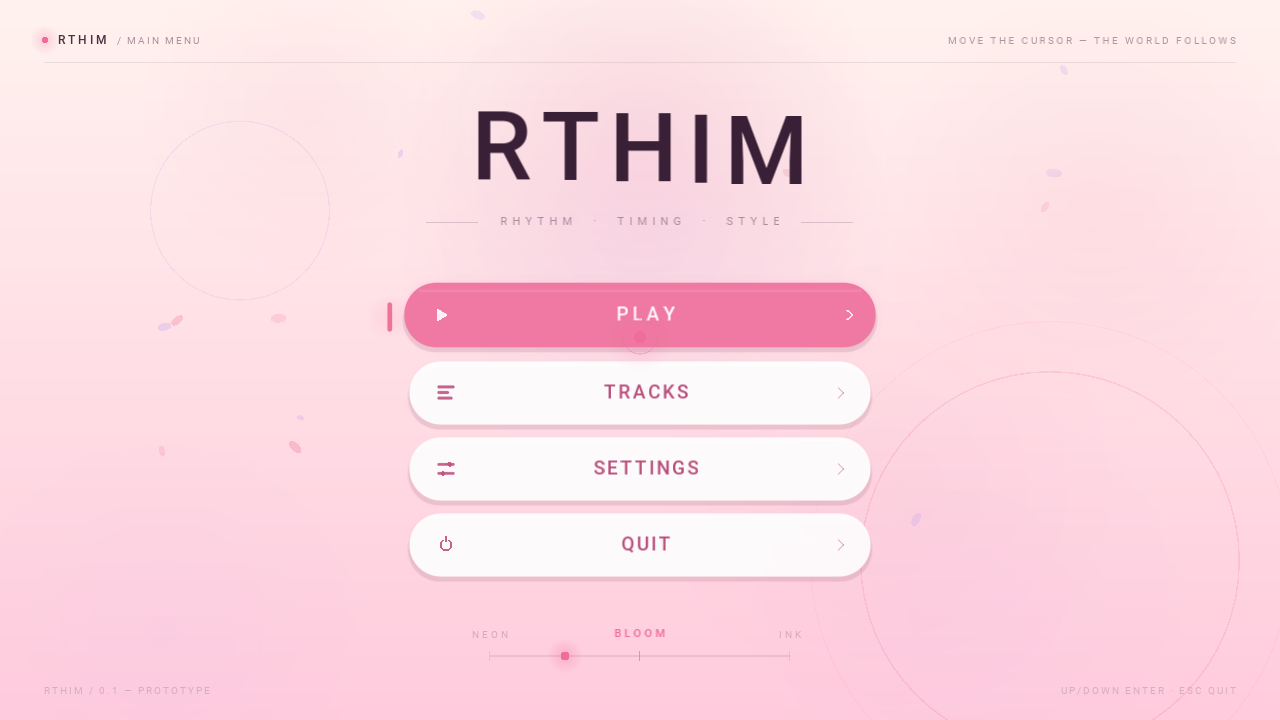
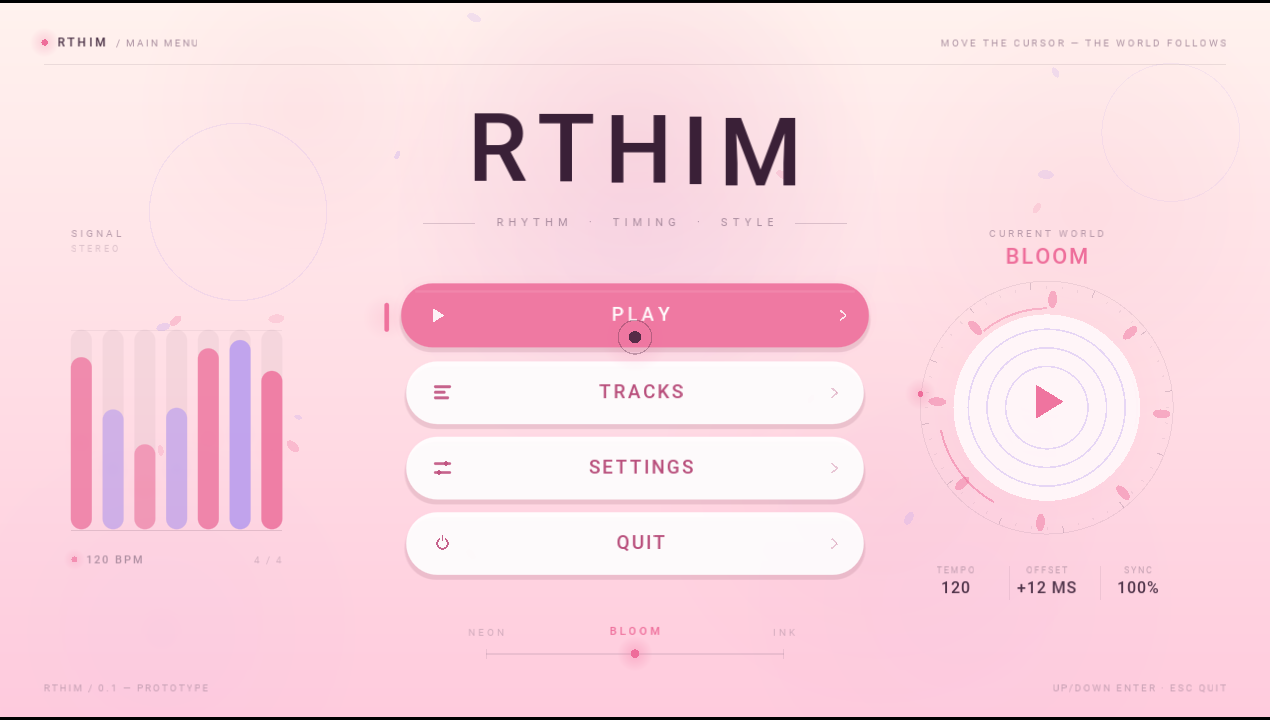
feat(menu): three-column composition with signal and world medallion
- left: animated seven-bar signal meter with BPM readout
- right: medallion of the current world — orbit ticks, rotating arcs,
  per-style interior (spectrum spokes / petals / vinyl wedge), big
  action icon that pops on selection change, tempo/offset/sync stats
- fix style meter knob only reaching the middle of the track
- keep the current world readable during transitions: button labels
  contrast against the fill, cursor switches to text colour on hover
- ink backdrop: drop the duplicate ring that fought with the medallion

diff --git a/src/menu.cpp b/src/menu.cpp
@@ -231,12 +231,10 @@ void backdrop(Gfx &g, const Style &st, const float w[3], const State &s) {
             g.ellipse(x, y, rx, rx * 0.55f, rot, fade(c, al), 16);
         }
 
-        g.ring(1050.f + px * -40.f, 560.f + py * -30.f, 190.f, 1.5f,
-               fade(st.accent, 0.18f * a));
-        g.ring(1050.f + px * -40.f, 560.f + py * -30.f, 240.f, 1.f,
-               fade(st.accent, 0.08f * a));
         g.ring(240.f + px * -30.f, 210.f + py * -20.f, 90.f, 1.2f,
                fade(st.accent2, 0.16f * a));
+        g.ring(1180.f + px * -20.f, 130.f + py * -20.f, 70.f, 1.f,
+               fade(st.accent2, 0.12f * a));
     }
 
     // ---- INK: полутон, пыль, красное кольцо, рамка ------------------------
@@ -264,13 +262,6 @@ void backdrop(Gfx &g, const Style &st, const float w[3], const State &s) {
             float x = 860.f + float(i) * 46.f;
             g.line(x, -20.f, x - 190.f, 210.f, 22.f, fade(st.text, 0.04f * a));
         }
-
-        float cx = 1090.f + px * -50.f, cy = 552.f + py * -30.f;
-        g.ring(cx, cy, 150.f, 2.f, fade(st.accent2, 0.55f * a));
-        float ang = time * 0.35f;
-        g.circle(cx + std::cos(ang) * 150.f, cy + std::sin(ang) * 150.f, 5.f,
-                 fade(st.accent2, 0.9f * a), 16);
-        g.circle(cx, cy, 3.f, fade(st.accent2, 0.7f * a), 12);
 
         Color frame = fade(st.text, 0.45f * a);
         g.line(16.f, 16.f, W - 16.f, 16.f, 1.2f, frame);
@@ -470,6 +461,199 @@ void button(Gfx &g, const Style &st, const State &s, int i, float peak) {
     g.line(ax + 6.f, cy, ax, cy + 5.f, 1.6f, arrow);
 }
 
+// Левая колонка: «сигнал» — псевдо-эквалайзер, который дышит в такт.
+void equalizer(Gfx &g, const Style &st, const State &s) {
+    float a = clamp01((s.intro - 0.30f) / 0.6f);
+    if (a <= 0.002f) {
+        return;
+    }
+    constexpr float x0 = 72.f;
+    constexpr float base = 530.f;
+    constexpr float bw = 20.f;
+    constexpr float gap = 12.f;
+    constexpr float maxH = 200.f;
+    constexpr int n = 7;
+
+    g.text("SIGNAL", 10, fade(st.dim, 0.7f * a), x0, 226.f, Gfx::Left, 3.f,
+           false);
+    g.text("STEREO", 9, fade(st.dim, 0.35f * a), x0, 242.f, Gfx::Left, 3.f,
+           false);
+
+    float beat = std::pow(std::max(0.f, std::sin(s.time * 6.28318f * 2.f)), 6.f);
+    float trackW = float(n) * (bw + gap) - gap;
+
+    g.fillRect({x0, base - maxH, trackW, 1.f}, fade(st.text, 0.06f * a));
+    g.fillRect({x0, base + 1.f, trackW, 1.f}, fade(st.text, 0.14f * a));
+
+    for (int i = 0; i < n; ++i) {
+        float ph = float(i) * 0.9f;
+        float wave = 0.5f + 0.5f * std::sin(s.time * 2.4f + ph);
+        float wave2 = 0.5f + 0.5f * std::sin(s.time * 4.1f + ph * 1.7f);
+        float shape = 0.30f + 0.40f * wave + 0.22f * wave2;
+        float h = std::min(maxH, 24.f + maxH * shape * (1.f + 0.18f * beat));
+        float x = x0 + float(i) * (bw + gap);
+        float r = st.radiusFactor * bw * 0.5f;
+        Color c = (i % 2 == 0) ? st.accent : st.accent2;
+
+        g.fillRoundRect({x, base - maxH, bw, maxH}, r, 0.f,
+                        fade(st.text, 0.05f * a));
+        if (st.hardShadow > 0.2f) {
+            float sh = st.hardShadow * 0.5f;
+            g.fillRoundRect({x + sh, base - h + sh, bw, h}, r, 0.f,
+                            fade(hex(0x000000), 0.85f * a));
+        }
+        g.fillRoundRect({x, base - h, bw, h}, r, 0.f,
+                        fade(c, (0.55f + 0.30f * wave) * a));
+        if (st.glow > 0.05f) {
+            g.glowCircle(x + bw * 0.5f, base - h * 0.5f, 20.f, c,
+                         0.09f * st.glow * a);
+        }
+    }
+
+    float by = base + 24.f;
+    float pulse = 0.6f + 0.4f * std::sin(s.time * 6.28318f * 2.f);
+    g.glowCircle(x0 + 3.f, by + 7.f, 11.f, st.accent, 0.30f * a * pulse);
+    g.circle(x0 + 3.f, by + 7.f, 3.f, fade(st.accent, a * pulse), 16);
+    g.text("120 BPM", 11, fade(st.dim, 0.8f * a), x0 + 15.f, by,
+           Gfx::Left, 2.f, true);
+    g.text("4 / 4", 10, fade(st.dim, 0.4f * a), x0 + trackW, by + 1.f,
+           Gfx::Right, 2.f, false);
+}
+
+// Правая колонка: медальон текущего мира и выбранного действия.
+void hero(Gfx &g, const Style &st, const float w[3], const State &s) {
+    float a = clamp01((s.intro - 0.35f) / 0.6f);
+    if (a <= 0.002f) {
+        return;
+    }
+    constexpr float cx = 1055.f;
+    constexpr float cy = 408.f;
+    constexpr float R = 104.f;
+    float beat = std::pow(std::max(0.f, std::sin(s.time * 6.28318f * 2.f)), 8.f);
+
+    g.text("CURRENT WORLD", 10, fade(st.dim, 0.7f * a), cx, 226.f,
+           Gfx::Center, 3.f, false);
+    int active = std::clamp(int(std::round(s.styleT)), 0, 2);
+    g.text(kNames[active], 22, fade(st.accent, a), cx, 242.f, Gfx::Center,
+           2.f, true);
+
+    // Орбита с делениями и вращающимися дугами.
+    g.ring(cx, cy, R + 24.f, 1.f, fade(st.dim, 0.16f * a));
+    for (int i = 0; i < 48; ++i) {
+        float ang = 6.28318f * float(i) / 48.f + s.time * 0.06f;
+        float r0 = R + 16.f;
+        float r1 = r0 + ((i % 4 == 0) ? 7.f : 3.f);
+        g.line(cx + std::cos(ang) * r0, cy + std::sin(ang) * r0,
+               cx + std::cos(ang) * r1, cy + std::sin(ang) * r1, 1.f,
+               fade(st.dim, ((i % 4 == 0) ? 0.35f : 0.14f) * a));
+    }
+    for (int k = 0; k < 3; ++k) {
+        float base = s.time * (0.32f - 0.07f * float(k)) + float(k) * 2.4f;
+        float span = 0.85f - 0.16f * float(k);
+        g.arc(cx, cy, R + 6.f - float(k) * 9.f, 2.f, base, base + span,
+              fade(st.accent, (0.50f - 0.12f * float(k)) * a), 40);
+    }
+
+    float discR = R - 10.f + beat * 2.f;
+
+    // Свечение/тень под диском.
+    if (w[0] > 0.01f) {
+        g.glowCircle(cx, cy, R * 1.3f, st.accent,
+                     (0.14f + 0.10f * beat) * w[0] * a);
+    }
+    if (w[1] > 0.01f) {
+        g.glowCircle(cx, cy, R * 1.15f, st.accent,
+                     (0.09f + 0.06f * beat) * w[1] * a);
+    }
+    if (w[2] > 0.01f) {
+        g.circle(cx + 9.f, cy + 9.f, discR,
+                 fade(hex(0x000000), 0.85f * w[2] * a), 64);
+    }
+
+    Color disc = mix(st.btnFill, st.bgBottom, 0.15f);
+    if (w[2] > 0.01f) {
+        disc = mix(disc, hex(0xF6F3EB), 0.85f * w[2]);
+    }
+    g.circle(cx, cy, discR, fade(disc, a), 64);
+    if (st.borderWidth > 0.35f) {
+        g.ring(cx, cy, discR, st.borderWidth, fade(st.btnBorder, a));
+    }
+
+    // Внутренности диска — свои у каждого мира.
+    if (w[0] > 0.01f) {
+        for (int i = 0; i < 32; ++i) {
+            float ang = 6.28318f * float(i) / 32.f - s.time * 0.35f;
+            float r0 = discR * 0.40f;
+            float amp = 0.35f + 0.65f * std::fabs(
+                                         std::sin(float(i) * 2.1f + s.time * 2.6f));
+            float r1 = r0 + 10.f + discR * 0.34f * amp;
+            g.line(cx + std::cos(ang) * r0, cy + std::sin(ang) * r0,
+                   cx + std::cos(ang) * r1, cy + std::sin(ang) * r1, 2.f,
+                   fade((i % 2) ? st.accent2 : st.accent, 0.45f * w[0] * a));
+        }
+        g.ring(cx, cy, discR * 0.36f, 1.2f, fade(st.accent, 0.40f * w[0] * a));
+    }
+    if (w[1] > 0.01f) {
+        for (int i = 0; i < 3; ++i) {
+            g.ring(cx, cy, discR * (0.45f + 0.20f * float(i)), 1.6f,
+                   fade(st.accent2, 0.34f * w[1] * a));
+        }
+        for (int i = 0; i < 8; ++i) {
+            float ang = s.time * 0.25f + 6.28318f * float(i) / 8.f;
+            float rr = discR + 18.f + std::sin(s.time * 1.2f + float(i)) * 4.f;
+            g.ellipse(cx + std::cos(ang) * rr, cy + std::sin(ang) * rr, 9.f,
+                      4.4f, ang, fade(st.accent, 0.45f * w[1] * a), 18);
+        }
+    }
+    if (w[2] > 0.01f) {
+        std::vector<Pt> wedge;
+        wedge.push_back({cx, cy});
+        float baseAng = s.time * 0.18f;
+        for (int i = 0; i <= 24; ++i) {
+            float ang = baseAng + 1.10f * float(i) / 24.f;
+            wedge.push_back({cx + std::cos(ang) * discR,
+                             cy + std::sin(ang) * discR});
+        }
+        g.polygon(wedge, fade(st.accent2, 0.85f * w[2] * a));
+
+    }
+
+    if (w[2] > 0.01f) {
+        g.circle(cx, cy, 42.f, fade(hex(0xF6F3EB), 0.96f * w[2] * a), 40);
+        g.ring(cx, cy, 42.f, 2.f, fade(hex(0x15130F), 0.9f * w[2] * a));
+    }
+
+    // Большая иконка выбранного пункта.
+    float pop = 1.f + 0.14f * std::exp(-s.iconT * 9.f);
+    Color ic = st.accent;
+    if (std::fabs(luminance(ic) - luminance(disc)) < 0.22f) {
+        ic = st.text;
+    }
+    icon(g, kIcons[s.selected], cx, cy - 6.f, 2.6f * pop,
+         fade(ic, 0.95f * a));
+
+    // Точка на орбите.
+    float oa = s.time * 0.5f;
+    float ox = cx + std::cos(oa) * (R + 24.f);
+    float oy = cy + std::sin(oa) * (R + 24.f);
+    g.glowCircle(ox, oy, 16.f, st.accent, 0.25f * a);
+    g.circle(ox, oy, 3.f, fade(st.accent, a), 16);
+
+    // Показания под медальоном.
+    const char *statLabels[3] = {"TEMPO", "OFFSET", "SYNC"};
+    const char *statVals[3] = {"120", "+12 MS", "100%"};
+    for (int i = 0; i < 3; ++i) {
+        float x = cx + float(i - 1) * 92.f;
+        g.text(statLabels[i], 9, fade(st.dim, 0.6f * a), x, 566.f,
+               Gfx::Center, 2.f, false);
+        g.text(statVals[i], 16, fade(st.text, 0.9f * a), x, 580.f,
+               Gfx::Center, 1.f, true);
+        if (i < 2) {
+            g.fillRect({x + 54.f, 568.f, 1.f, 34.f}, fade(st.text, 0.08f * a));
+        }
+    }
+}
+
 void footer(Gfx &g, const Style &st, const State &s) {
     float a = clamp01((s.intro - 0.5f) / 0.6f);
     if (a <= 0.002f) {
@@ -492,14 +676,14 @@ void footer(Gfx &g, const Style &st, const State &s) {
                on ? 626.f : 628.f, Gfx::Center, 3.f, on);
     }
 
-    float kx = trackX + trackW * 0.5f * (s.styleT * 0.5f);
+    float kx = trackX + trackW * (s.styleT * 0.5f);
     float pulse = 0.7f + 0.3f * std::sin(s.time * 4.f);
     g.glowCircle(kx, trackY, 18.f, st.accent, 0.35f * a * pulse);
     g.circle(kx, trackY, 4.5f, fade(st.accent, a), 24);
 
-    g.text("RTHIM / 0.1 — PROTOTYPE", 10, fade(st.dim, 0.4f * a), 44.f,
+    g.text("RTHIM / 0.1 — PROTOTYPE", 10, fade(st.dim, 0.55f * a), 44.f,
            684.f, Gfx::Left, 2.f, false);
-    g.text("UP/DOWN ENTER · ESC QUIT", 10, fade(st.dim, 0.4f * a),
+    g.text("UP/DOWN ENTER · ESC QUIT", 10, fade(st.dim, 0.55f * a),
            W - 44.f, 684.f, Gfx::Right, 2.f, false);
 }
 
@@ -533,22 +717,25 @@ void cursorDraw(Gfx &g, const Style &st, const float w[3], const State &s) {
         hov = std::max(hov, s.hover[i]);
     }
     float k = 1.f + 0.35f * hov;
+    // На залитой акцентом кнопке курсор того же цвета исчезал бы —
+    // подмешиваем цвет текста, он всегда контрастен плашке.
+    Color cc = mix(st.accent, st.text, hov * 0.85f);
 
     g.glowCircle(s.trailX, s.trailY, 26.f * k, st.accent,
                  0.10f + 0.10f * hov);
 
     if (w[0] > 0.01f) {
-        Color c = fade(st.accent, 0.85f * w[0]);
+        Color c = fade(cc, 0.85f * w[0]);
         g.line(x - 15.f * k, y, x + 15.f * k, y, 1.3f, c);
         g.line(x, y - 15.f * k, x, y + 15.f * k, 1.3f, c);
-        g.ring(x, y, 9.f * k, 1.2f, fade(st.accent, 0.55f * w[0]));
+        g.ring(x, y, 9.f * k, 1.2f, fade(cc, 0.55f * w[0]));
     }
     if (w[1] > 0.01f) {
-        g.circle(x, y, 4.6f * k, fade(st.accent, w[1]), 24);
-        g.ring(x, y, 13.f * k, 1.2f, fade(st.accent, 0.35f * w[1]));
+        g.circle(x, y, 4.6f * k, fade(cc, w[1]), 24);
+        g.ring(x, y, 13.f * k, 1.2f, fade(cc, 0.35f * w[1]));
     }
     if (w[2] > 0.01f) {
-        Color c = fade(st.text, w[2]);
+        Color c = fade(cc, w[2]);
         float d = 8.f * k;
         g.line(x - d, y - d, x + d, y - d, 2.f, c);
         g.line(x + d, y - d, x + d, y + d, 2.f, c);
@@ -576,6 +763,11 @@ void update(State &s, float dt) {
     if (over >= 0) {
         s.selected = over;
     }
+    if (s.selected != s.prevSelected) {
+        s.prevSelected = s.selected;
+        s.iconT = 0.f;
+    }
+    s.iconT += dt;
 
     for (int i = 0; i < kCount; ++i) {
         float target = (i == s.selected) ? 1.f : 0.f;
@@ -604,6 +796,8 @@ void draw(Gfx &g, State &s) {
     styleWeights(s.styleT, w);
 
     backdrop(g, st, w, s);
+    equalizer(g, st, s);
+    hero(g, st, w, s);
     topBar(g, st, s);
     titleBlock(g, st, w, s);
     indicator(g, st, s);

diff --git a/src/theme.hpp b/src/theme.hpp
@@ -108,8 +108,11 @@ inline void guardContrast(Style &s) {
     if (std::fabs(luminance(s.text) - bg) < 0.33f) {
         s.text = (bg < 0.5f) ? hex(0xFFFFFF) : hex(0x141014);
     }
-    if (std::fabs(luminance(s.btnText) - bg) < 0.30f) {
-        s.btnText = (bg < 0.5f) ? hex(0xFFFFFF) : hex(0x141014);
+    // Текст лежит на плашке, а не на фоне: сравниваем именно с заливкой.
+    // На стыке миров плашка серая — тогда уводим подпись в чёрный.
+    float lf = luminance(s.btnFill);
+    if (std::fabs(luminance(s.btnText) - lf) < 0.34f) {
+        s.btnText = (lf < 0.5f) ? hex(0xFFFFFF) : hex(0x141014);
     }
     if (std::fabs(luminance(s.dim) - bg) < 0.16f) {
         s.dim = (bg < 0.5f) ? hex(0xC6B8D6) : hex(0x6E6860);

diff --git a/src/menu.hpp b/src/menu.hpp
@@ -23,10 +23,14 @@ struct State {
     float intro = 0.f;
 
     int selected = 0;
+    int prevSelected = 0;
     float hover[4] = {};
     float press[4] = {};
     float indicatorY = 0.f;
     float indicatorV = 0.f;
+
+    // Всплеск иконки в «медальоне» при смене пункта.
+    float iconT = 10.f;
 
     float rippleT = 2.f; // >= 1 — эффект неактивен
     float rippleX = 0.f, rippleY = 0.f;

diff --git a/README.md b/README.md
@@ -9,11 +9,25 @@
 | --- | --- | --- |
 | ![neon](docs/neon.png) | ![bloom](docs/bloom.png) | ![ink](docs/ink.png) |
 
+### Композиция
+
+Экран держится на трёх колонках: слева живой «сигнал» (эквалайзер с BPM),
+в центре — заголовок и пункты меню, справа — медальон текущего мира с
+выбранным действием, орбитой и показателями. Так кадр не распадается на
+пустое поле вокруг кнопок.
+
 ### Анимации
 
 - Мир меню догоняет курсор пружиной (без рывков и без «прилипания»):
   у каждого стиля есть плато, переход занимает узкую полосу.
-- Курсор: собственная пружина + медленный светящийся след.
+- Курсор: собственная пружина + медленный светящийся след; над кнопкой
+  меняет цвет на контрастный, чтобы не растворяться в акцентной заливке.
+- Левая колонка: семь столбиков «сигнала» дышат в такт, с жёсткой тенью в
+  INK и свечением в NEON.
+- Правая колонка: вращающиеся дуги, деления орбиты, точка на орбите, пульс
+  диска; внутренности диска разные — спектр-спицы (NEON), лепестки и кольца
+  (BLOOM), пластинка с красным сектором и этикеткой (INK). Иконка пункта
+  подпрыгивает при смене выбора.
 - Вход: буквы заголовка всплывают по одной, кнопки — каскадом снизу.
 - Кнопки: подъём и лёгкое масштабирование при наведении, продавливание при
   клике, расширяющийся трекинг подписи, «дышащая» стрелка, бегущий индикатор
